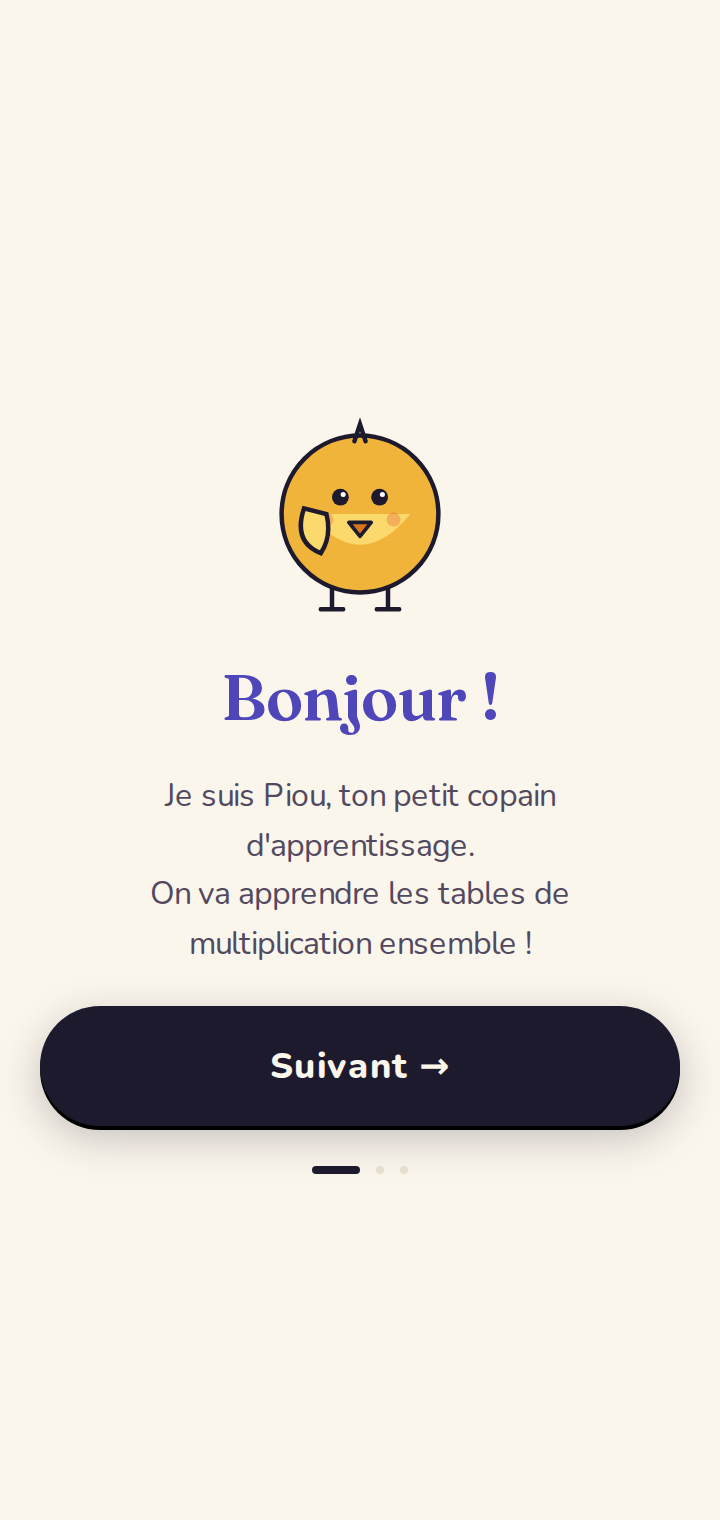
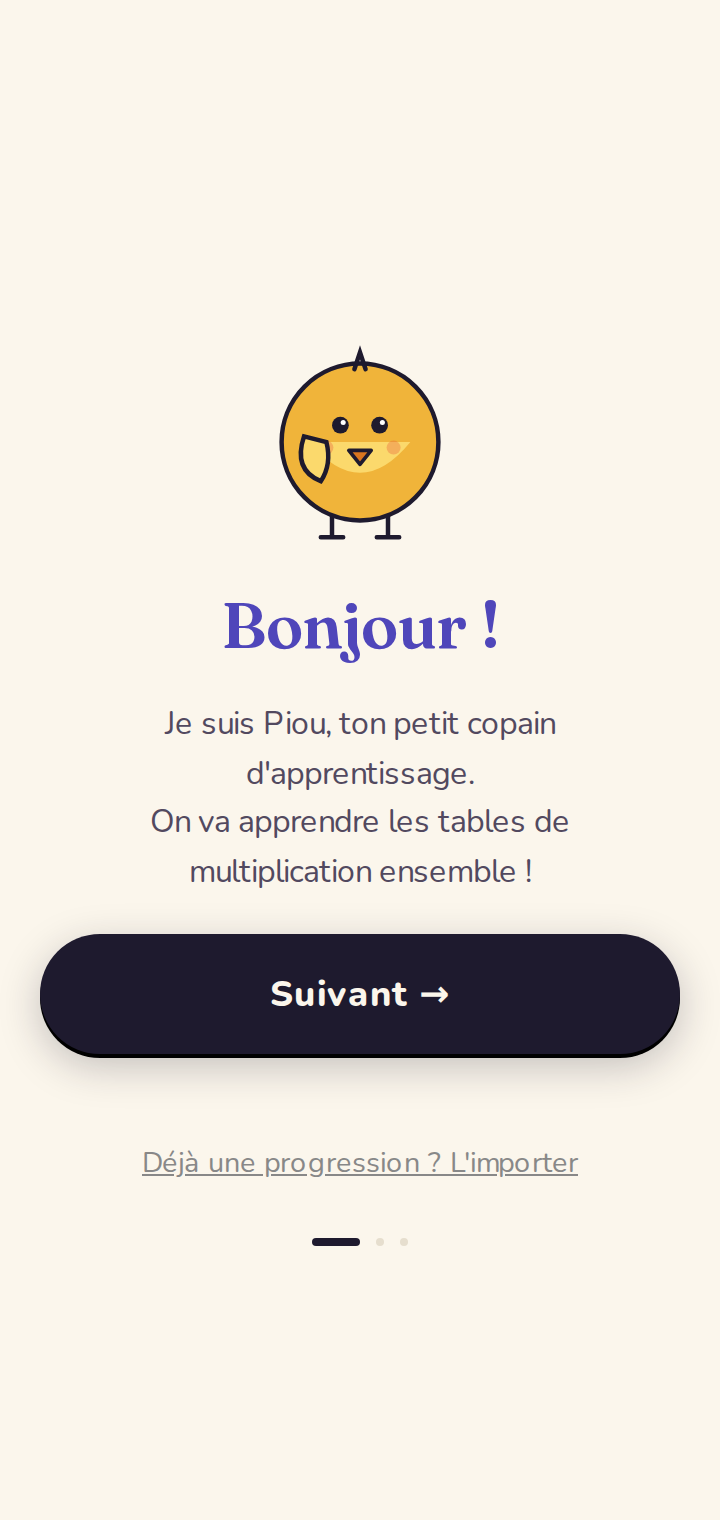
deploy: main @ d79be3f5c4579de8bff702980e0f7e247862c53c d79be3f5c4579de8bff702980e0f7e247862c53c

Changed region(s): [[0.0306, 0.2164, 0.9472, 0.773], [0.4278, 0.8039, 0.4889, 0.8349]]

diff --git a/styles.css b/styles.css
@@ -4723,6 +4723,48 @@ input, select, textarea {
   background: var(--ink);
 }
 
+/* Import d'une progression existante (migration / changement d'appareil),
+   accessible depuis le 1er écran du Welcome. Volontairement discret. */
+.welcome-import-link {
+  margin-top: 18px;
+  background: none;
+  border: none;
+  color: var(--muted, #888);
+  font-size: 0.9rem;
+  text-decoration: underline;
+  cursor: pointer;
+  padding: 8px;
+}
+
+.welcome-import {
+  margin-top: 18px;
+  width: 100%;
+  display: flex;
+  flex-direction: column;
+  align-items: stretch;
+  gap: 10px;
+}
+
+.welcome-import-textarea {
+  width: 100%;
+  min-height: 96px;
+  box-sizing: border-box;
+  resize: vertical;
+  border: 1.5px solid var(--line);
+  border-radius: 12px;
+  padding: 12px;
+  font-family: ui-monospace, SFMono-Regular, Menlo, monospace;
+  font-size: 0.85rem;
+  background: #fff;
+  color: var(--ink);
+}
+
+.welcome-import-error {
+  color: #D9534F;
+  font-size: 0.88rem;
+  text-align: center;
+}
+
 /* ===== static-landing.css ===== */
 .landing {
   flex: 1;

diff --git a/src/App.js b/src/App.js
@@ -1,5 +1,5 @@
-import{jsx as m,jsxs as ds}from"preact/jsx-runtime";import{useState as u,useEffect as P,useLayoutEffect as Ue,useCallback as l,useRef as h,useMemo as H,lazy as k,Suspense as Le}from"react";import{setBusy as Fe}from"virtual:pwa-register";import{FAST_THRESHOLD_MS as xe,DIVISION_FAST_THRESHOLD_MS as Te}from"./types.js";import{composeSession as Ee}from"./lib/sessionComposer.js";import{composeDailySession as De}from"./lib/dailyComposer.js";import{processAnswer as oe}from"./lib/leitner.js";import{checkBadges as ze,getCompletedTables as ne,getCompletedDivisionTables as re,isRule11Unlocked as ie,isDivisionUnlocked as ae}from"./lib/badges.js";import{loadProfile as Je,saveProfile as Ne,clearStoredProfile as Ae,createNewProfile as Me,exportProfile as He,importProfile as Oe}from"./lib/storage.js";import{getFactKey as We}from"./lib/facts.js";import{getDivisionFactKey as _e}from"./lib/divisionFacts.js";import{seedFromPlacement as qe}from"./lib/placement.js";import{todayISO as y}from"./lib/utils.js";import{applyStreakUpdate as Ve}from"./lib/streak.js";import{isStandalone as $e,clearInstallSkipped as je}from"./lib/install.js";import{preflightMicPermission as Qe}from"./lib/micPreflight.js";import{syncLastSession as Ke}from"./lib/push.js";import{isVoiceMode as Ge}from"./hooks/useInputMode.js";import Xe from"./screens/WelcomeScreen.js";import Ye from"./screens/RulesIntroScreen.js";import Ze from"./screens/HomeScreen.js";import es from"./screens/SessionScreen.js";import ss from"./screens/RecapScreen.js";const ts=k(()=>import("./screens/ProgressScreen.js")),os=k(()=>import("./screens/BadgesScreen.js")),ns=k(()=>import("./screens/RulesScreen.js")),rs=k(()=>import("./screens/ParentDashboard.js")),is=k(()=>import("./screens/PrivacyScreen.js")),as=k(()=>import("./screens/ChangelogScreen.js"));function cs(e){return e?e.hasSeenRulesIntro?"home":"rulesIntro":"welcome"}function ls(){const[e,g]=u(()=>Je()),[a,n]=u(()=>cs(e)),[O,ce]=u([]),[I,W]=u("mult"),[le,_]=u("mult"),[q,V]=u(null),[de,$]=u([]),[ue,j]=u([]),[me,Q]=u(!1),[fe,K]=u(!1),[pe,G]=u(!1),[C,Se]=u(()=>y()),U=h(0),L=h(0),F=h([]),x=h(new Map),T=h(new Set),X=h(new Set),Y=h(new Set),Z=h(!0);P(()=>{if(Z.current){Z.current=!1;return}e&&Ne(e)},[e]),P(()=>{$e()&&je()},[]);const N=e?.mysteryTheme;P(()=>{if(!N)return;const s="/",t=()=>{navigator.serviceWorker?.ready.finally(()=>{for(let r=1;r<=5;r++)fetch(`${s}mystery/${N}/level-${r}.png`).catch(()=>{})})};if(typeof window.requestIdleCallback=="function"){const r=window.requestIdleCallback(t,{timeout:3e3});return()=>window.cancelIdleCallback(r)}const o=window.setTimeout(t,1500);return()=>window.clearTimeout(o)},[N]),Ue(()=>{document.body.scrollTop=0,document.documentElement.scrollTop=0},[a]),P(()=>{Fe(a!=="home")},[a]),P(()=>{const s=()=>Se(t=>{const o=y();return o===t?t:o});return document.addEventListener("visibilitychange",s),window.addEventListener("focus",s),()=>{document.removeEventListener("visibilitychange",s),window.removeEventListener("focus",s)}},[]);const he=l((s,t)=>{const o=Me(s);qe(o.facts,t,y()),g(o),n("rulesIntro")},[]),ge=l(()=>{g(s=>s&&{...s,hasSeenRulesIntro:!0}),n("home")},[]),ee=H(()=>e?ie(e):!1,[e]),we=!!e&&ee&&!e.hasSeenRule11,ve=l(()=>{g(s=>!s||!ie(s)||s.hasSeenRule11?s:{...s,hasSeenRule11:!0}),n("rules")},[]),w=H(()=>e?ae(e):!1,[e]),se=!!e&&e.lastSessionDate===C,E=H(()=>!e||se?[]:w?De(e,C):Ee(e,C).map(s=>({kind:"mult",...s})),[e,se,w,C]),be=E.length>0,te=l(()=>{U.current=0,L.current=0,F.current=[],x.current=new Map,T.current=new Set},[]),ke=l(async()=>{!e||E.length===0||(Ge()&&await Qe(),te(),X.current=ne(e.facts),Y.current=re(e.divisionFacts??[]),ce(E),n("session"))},[e,E,te]),A=l((s,t,o)=>{x.current.has(s)||x.current.set(s,t);const r=x.current.get(s);o>r?T.current.add(s):T.current.delete(s)},[]),ye=l((s,t,o,r,v)=>{const p=(s.kind==="div"?Te:xe)[v];if(F.current.push({kind:s.kind,a:s.kind==="div"?s.fact.divisor:s.fact.a,b:s.kind==="div"?s.fact.quotient:s.fact.b,correct:t,responseTimeMs:o,answeredWith:r,isBonusReview:s.isBonusReview,inputMode:v,fast:t&&o<p}),t?(U.current++,L.current=Math.max(L.current,U.current)):U.current=0,s.isBonusReview)return;const D=y();g(d=>{if(!d)return d;if(s.kind==="div"){if(!d.divisionFacts)return d;const{dividend:c,divisor:B}=s.fact,J=d.divisionFacts.find(b=>b.dividend===c&&b.divisor===B)??s.fact,i=oe(J,t,o,D,v,p);return i.history.length>0&&(i.history[i.history.length-1].answeredWith=r),i.introduced||(i.introduced=!0),A(_e(c,B),J.box,i.box),{...d,divisionFacts:d.divisionFacts.map(b=>b.dividend===c&&b.divisor===B?i:b)}}const{a:f,b:R}=s.fact,z=d.facts.find(c=>c.a===f&&c.b===R)??s.fact,S=oe(z,t,o,D,v,p);return S.history.length>0&&(S.history[S.history.length-1].answeredWith=r),S.introduced||(S.introduced=!0),A(We(f,R),z.box,S.box),{...d,facts:d.facts.map(c=>c.a===f&&c.b===R?S:c)}})},[A]),Re=l(s=>{if(!e)return;const t=w?"div":"mult",o={...s,factsPromoted:T.current.size,questions:F.current},r=y(),v=e.lastSessionDate,p=Ve(e,r),D=Math.max(e.longestStreak,p.currentStreak),d=[...e.sessionHistory,o].slice(-50),f={...e,totalSessions:e.totalSessions+1,currentStreak:p.currentStreak,longestStreak:D,lastSessionDate:r,streakFreezes:p.streakFreezes,sessionHistory:d},R={consecutiveCorrect:L.current,wasFast:F.current.map(i=>i.fast??!1)},z=ze(f,R,v),S=new Set(e.badges.map(i=>i.id)),c=z.filter(i=>!S.has(i.id));f.badges=[...e.badges,...c];const B=t==="div"?[...re(f.divisionFacts??[])].filter(i=>!Y.current.has(i)):[...ne(f.facts)].filter(i=>!X.current.has(i)),J=!w&&ae(f);g(f),V(o),$(c),j(B),Q(J),K(p.freezeJustUsed),G(p.freezeJustEarned),W(t),n("recap"),Ke()},[e,w]),M=l(s=>{V(null),$([]),j([]),Q(!1),K(!1),G(!1),W("mult"),n(s)},[]),Be=l(()=>M("home"),[M]),Pe=l(()=>{if(!e)return;const s=He(e),t=new Blob([s],{type:"application/json"}),o=URL.createObjectURL(t),r=document.createElement("a");r.href=o,r.download=`tablito-${e.name}-${y()}.json`,r.click(),URL.revokeObjectURL(o)},[e]),Ie=l(s=>{const t=Oe(s);t&&g(t)},[]),Ce=l(()=>{window.confirm(`R\xE9initialiser le profil ?
+import{jsx as m,jsxs as ds}from"preact/jsx-runtime";import{useState as d,useEffect as P,useLayoutEffect as Fe,useCallback as c,useRef as h,useMemo as O,lazy as k,Suspense as xe}from"react";import{setBusy as Te}from"virtual:pwa-register";import{FAST_THRESHOLD_MS as Ee,DIVISION_FAST_THRESHOLD_MS as De}from"./types.js";import{composeSession as ze}from"./lib/sessionComposer.js";import{composeDailySession as Je}from"./lib/dailyComposer.js";import{processAnswer as ne}from"./lib/leitner.js";import{checkBadges as Ne,getCompletedTables as re,getCompletedDivisionTables as ie,isRule11Unlocked as ae,isDivisionUnlocked as ce}from"./lib/badges.js";import{loadProfile as Ae,saveProfile as Me,clearStoredProfile as He,createNewProfile as Oe,exportProfile as We,importProfile as _e}from"./lib/storage.js";import{getFactKey as qe}from"./lib/facts.js";import{getDivisionFactKey as Ve}from"./lib/divisionFacts.js";import{seedFromPlacement as $e}from"./lib/placement.js";import{todayISO as y}from"./lib/utils.js";import{applyStreakUpdate as je}from"./lib/streak.js";import{isStandalone as Qe,clearInstallSkipped as Ke}from"./lib/install.js";import{preflightMicPermission as Ge}from"./lib/micPreflight.js";import{syncLastSession as Xe}from"./lib/push.js";import{isVoiceMode as Ye}from"./hooks/useInputMode.js";import Ze from"./screens/WelcomeScreen.js";import es from"./screens/RulesIntroScreen.js";import ss from"./screens/HomeScreen.js";import ts from"./screens/SessionScreen.js";import os from"./screens/RecapScreen.js";const ns=k(()=>import("./screens/ProgressScreen.js")),rs=k(()=>import("./screens/BadgesScreen.js")),is=k(()=>import("./screens/RulesScreen.js")),as=k(()=>import("./screens/ParentDashboard.js")),cs=k(()=>import("./screens/PrivacyScreen.js")),ls=k(()=>import("./screens/ChangelogScreen.js"));function le(e){return e?e.hasSeenRulesIntro?"home":"rulesIntro":"welcome"}function us(){const[e,g]=d(()=>Ae()),[a,n]=d(()=>le(e)),[W,ue]=d([]),[B,_]=d("mult"),[de,q]=d("mult"),[V,$]=d(null),[me,j]=d([]),[fe,Q]=d([]),[pe,K]=d(!1),[Se,G]=d(!1),[he,X]=d(!1),[C,ge]=d(()=>y()),U=h(0),L=h(0),F=h([]),x=h(new Map),T=h(new Set),Y=h(new Set),Z=h(new Set),ee=h(!0);P(()=>{if(ee.current){ee.current=!1;return}e&&Me(e)},[e]),P(()=>{Qe()&&Ke()},[]);const N=e?.mysteryTheme;P(()=>{if(!N)return;const s="/",t=()=>{navigator.serviceWorker?.ready.finally(()=>{for(let r=1;r<=5;r++)fetch(`${s}mystery/${N}/level-${r}.png`).catch(()=>{})})};if(typeof window.requestIdleCallback=="function"){const r=window.requestIdleCallback(t,{timeout:3e3});return()=>window.cancelIdleCallback(r)}const o=window.setTimeout(t,1500);return()=>window.clearTimeout(o)},[N]),Fe(()=>{document.body.scrollTop=0,document.documentElement.scrollTop=0},[a]),P(()=>{Te(a!=="home")},[a]),P(()=>{const s=()=>ge(t=>{const o=y();return o===t?t:o});return document.addEventListener("visibilitychange",s),window.addEventListener("focus",s),()=>{document.removeEventListener("visibilitychange",s),window.removeEventListener("focus",s)}},[]);const we=c((s,t)=>{const o=Oe(s);$e(o.facts,t,y()),g(o),n("rulesIntro")},[]),ve=c(()=>{g(s=>s&&{...s,hasSeenRulesIntro:!0}),n("home")},[]),se=O(()=>e?ae(e):!1,[e]),be=!!e&&se&&!e.hasSeenRule11,ke=c(()=>{g(s=>!s||!ae(s)||s.hasSeenRule11?s:{...s,hasSeenRule11:!0}),n("rules")},[]),w=O(()=>e?ce(e):!1,[e]),te=!!e&&e.lastSessionDate===C,E=O(()=>!e||te?[]:w?Je(e,C):ze(e,C).map(s=>({kind:"mult",...s})),[e,te,w,C]),ye=E.length>0,oe=c(()=>{U.current=0,L.current=0,F.current=[],x.current=new Map,T.current=new Set},[]),Re=c(async()=>{!e||E.length===0||(Ye()&&await Ge(),oe(),Y.current=re(e.facts),Z.current=ie(e.divisionFacts??[]),ue(E),n("session"))},[e,E,oe]),A=c((s,t,o)=>{x.current.has(s)||x.current.set(s,t);const r=x.current.get(s);o>r?T.current.add(s):T.current.delete(s)},[]),Ie=c((s,t,o,r,v)=>{const p=(s.kind==="div"?De:Ee)[v];if(F.current.push({kind:s.kind,a:s.kind==="div"?s.fact.divisor:s.fact.a,b:s.kind==="div"?s.fact.quotient:s.fact.b,correct:t,responseTimeMs:o,answeredWith:r,isBonusReview:s.isBonusReview,inputMode:v,fast:t&&o<p}),t?(U.current++,L.current=Math.max(L.current,U.current)):U.current=0,s.isBonusReview)return;const D=y();g(u=>{if(!u)return u;if(s.kind==="div"){if(!u.divisionFacts)return u;const{dividend:l,divisor:I}=s.fact,J=u.divisionFacts.find(b=>b.dividend===l&&b.divisor===I)??s.fact,i=ne(J,t,o,D,v,p);return i.history.length>0&&(i.history[i.history.length-1].answeredWith=r),i.introduced||(i.introduced=!0),A(Ve(l,I),J.box,i.box),{...u,divisionFacts:u.divisionFacts.map(b=>b.dividend===l&&b.divisor===I?i:b)}}const{a:f,b:R}=s.fact,z=u.facts.find(l=>l.a===f&&l.b===R)??s.fact,S=ne(z,t,o,D,v,p);return S.history.length>0&&(S.history[S.history.length-1].answeredWith=r),S.introduced||(S.introduced=!0),A(qe(f,R),z.box,S.box),{...u,facts:u.facts.map(l=>l.a===f&&l.b===R?S:l)}})},[A]),Pe=c(s=>{if(!e)return;const t=w?"div":"mult",o={...s,factsPromoted:T.current.size,questions:F.current},r=y(),v=e.lastSessionDate,p=je(e,r),D=Math.max(e.longestStreak,p.currentStreak),u=[...e.sessionHistory,o].slice(-50),f={...e,totalSessions:e.totalSessions+1,currentStreak:p.currentStreak,longestStreak:D,lastSessionDate:r,streakFreezes:p.streakFreezes,sessionHistory:u},R={consecutiveCorrect:L.current,wasFast:F.current.map(i=>i.fast??!1)},z=Ne(f,R,v),S=new Set(e.badges.map(i=>i.id)),l=z.filter(i=>!S.has(i.id));f.badges=[...e.badges,...l];const I=t==="div"?[...ie(f.divisionFacts??[])].filter(i=>!Z.current.has(i)):[...re(f.facts)].filter(i=>!Y.current.has(i)),J=!w&&ce(f);g(f),$(o),j(l),Q(I),K(J),G(p.freezeJustUsed),X(p.freezeJustEarned),_(t),n("recap"),Xe()},[e,w]),M=c(s=>{$(null),j([]),Q([]),K(!1),G(!1),X(!1),_("mult"),n(s)},[]),Be=c(()=>M("home"),[M]),Ce=c(()=>{if(!e)return;const s=We(e),t=new Blob([s],{type:"application/json"}),o=URL.createObjectURL(t),r=document.createElement("a");r.href=o,r.download=`tablito-${e.name}-${y()}.json`,r.click(),URL.revokeObjectURL(o)},[e]),H=c(s=>{const t=_e(s);return t&&g(t),t},[]),Ue=c(s=>{const t=H(s);return t&&n(le(t)),t!==null},[H]),Le=c(()=>{window.confirm(`R\xE9initialiser le profil ?
 
-Le pr\xE9nom, les s\xE9ances, les badges, la s\xE9rie et le test de placement seront effac\xE9s. Cette action est irr\xE9versible.`)&&(Ae(),g(null),n("welcome"))},[]);return m("div",{className:"app",children:ds(Le,{fallback:null,children:[a==="welcome"&&m(Xe,{onComplete:he}),a==="rulesIntro"&&e&&m(Ye,{name:e.name,onComplete:ge}),a==="home"&&e&&m(Ze,{profile:e,hasSessionAvailable:be,hasNewRule:we,divisionUnlocked:w,onStart:ke,onShowProgress:()=>{_(w?"div":"mult"),n("progress")},onShowBadges:()=>n("badges"),onShowRules:ve,onShowParent:()=>n("parent")}),a==="session"&&e&&O.length>0&&m(es,{questions:O,onComplete:Re,onAnswer:ye}),a==="recap"&&e&&q&&m(ss,{name:e.name,result:q,newBadges:de,newlyCompletedTables:ue,divisionJustUnlocked:me,currentStreak:e.currentStreak,freezeJustUsed:fe,freezeJustEarned:pe,knownFactsCount:I==="div"?(e.divisionFacts??[]).filter(s=>s.box>=3).length:e.facts.filter(s=>s.box>=3).length,totalFacts:I==="div"?(e.divisionFacts??[]).length:e.facts.length,onFinish:Be,onShowProgress:()=>{_(I),M("progress")},mode:I}),a==="progress"&&e&&m(ts,{profile:e,onBack:()=>n("home"),initialView:le}),a==="badges"&&e&&m(os,{profile:e,onBack:()=>n("home")}),a==="rules"&&m(ns,{onBack:()=>n("home"),showRule11:ee}),a==="parent"&&e&&m(rs,{profile:e,onBack:()=>n("home"),onExport:Pe,onImport:Ie,onResetProfile:Ce,onShowPrivacy:()=>n("privacy"),onShowChangelog:()=>n("changelog")}),a==="privacy"&&m(is,{onBack:()=>n("parent")}),a==="changelog"&&m(as,{onBack:()=>n("parent")})]})})}export{ls as default};
+Le pr\xE9nom, les s\xE9ances, les badges, la s\xE9rie et le test de placement seront effac\xE9s. Cette action est irr\xE9versible.`)&&(He(),g(null),n("welcome"))},[]);return m("div",{className:"app",children:ds(xe,{fallback:null,children:[a==="welcome"&&m(Ze,{onComplete:we,onImport:Ue}),a==="rulesIntro"&&e&&m(es,{name:e.name,onComplete:ve}),a==="home"&&e&&m(ss,{profile:e,hasSessionAvailable:ye,hasNewRule:be,divisionUnlocked:w,onStart:Re,onShowProgress:()=>{q(w?"div":"mult"),n("progress")},onShowBadges:()=>n("badges"),onShowRules:ke,onShowParent:()=>n("parent")}),a==="session"&&e&&W.length>0&&m(ts,{questions:W,onComplete:Pe,onAnswer:Ie}),a==="recap"&&e&&V&&m(os,{name:e.name,result:V,newBadges:me,newlyCompletedTables:fe,divisionJustUnlocked:pe,currentStreak:e.currentStreak,freezeJustUsed:Se,freezeJustEarned:he,knownFactsCount:B==="div"?(e.divisionFacts??[]).filter(s=>s.box>=3).length:e.facts.filter(s=>s.box>=3).length,totalFacts:B==="div"?(e.divisionFacts??[]).length:e.facts.length,onFinish:Be,onShowProgress:()=>{q(B),M("progress")},mode:B}),a==="progress"&&e&&m(ns,{profile:e,onBack:()=>n("home"),initialView:de}),a==="badges"&&e&&m(rs,{profile:e,onBack:()=>n("home")}),a==="rules"&&m(is,{onBack:()=>n("home"),showRule11:se}),a==="parent"&&e&&m(as,{profile:e,onBack:()=>n("home"),onExport:Ce,onImport:H,onResetProfile:Le,onShowPrivacy:()=>n("privacy"),onShowChangelog:()=>n("changelog")}),a==="privacy"&&m(cs,{onBack:()=>n("parent")}),a==="changelog"&&m(ls,{onBack:()=>n("parent")})]})})}export{us as default};
 
 //# sourceMappingURL=App.js.map

diff --git a/guide/index.html b/guide/index.html
@@ -348,7 +348,7 @@
         <div class="shots shots-4">
           
           <figure class="shot">
-            <img src="screenshots/01-welcome-intro.png?v=785d37b9" alt="La mascotte se présente à l'enfant." width="360" height="760" loading="lazy" />
+            <img src="screenshots/01-welcome-intro.png?v=026538c3" alt="La mascotte se présente à l'enfant." width="360" height="760" loading="lazy" />
             <figcaption>La mascotte se présente à l'enfant.</figcaption>
           </figure>
 

diff --git a/src/lib/feedback.js b/src/lib/feedback.js
@@ -1,3 +1,3 @@
-import{countMastered as o}from"./leitner.js";const i="https://cseyzitvqvyuabmenntb.supabase.co",a="sb_publishable_WKCgKA1DIyj8o1eG4_Pciw_ZoujAiqj",l=!!(i&&a);function _(t,n=!1){const e={app_version:"20260610211506",user_agent:navigator.userAgent,locale:navigator.language,viewport:{w:window.innerWidth,h:window.innerHeight}};if(t){const c=new Date(t.startDate).getTime(),m=Math.max(0,Math.floor((Date.now()-c)/864e5));e.stats={total_sessions:t.totalSessions,facts_mastered:o(t.facts),facts_total:t.facts.length,current_streak:t.currentStreak,days_since_start:m};const s=t.divisionFacts??[];if(s.some(r=>r.introduced)&&(e.stats.divisions_mastered=o(s),e.stats.divisions_total=s.length),n){const{name:r,...d}=t;e.profile_snapshot=d}}return e}async function b(t){if(!l)throw new Error("Feedback d\xE9sactiv\xE9 (configuration manquante)");const n=await fetch(`${i}/rest/v1/feedback`,{method:"POST",headers:{apikey:a,Authorization:`Bearer ${a}`,"Content-Type":"application/json",Prefer:"return=minimal"},body:JSON.stringify({message:t.message,email:t.email&&t.email.trim()?t.email.trim():null,context:t.context})});if(!n.ok){const e=await n.text().catch(()=>"");throw new Error(e||`HTTP ${n.status}`)}}export{_ as buildContext,l as feedbackEnabled,b as submitFeedback};
+import{countMastered as o}from"./leitner.js";const i="https://cseyzitvqvyuabmenntb.supabase.co",a="sb_publishable_WKCgKA1DIyj8o1eG4_Pciw_ZoujAiqj",l=!!(i&&a);function _(t,n=!1){const e={app_version:"20260610212252",user_agent:navigator.userAgent,locale:navigator.language,viewport:{w:window.innerWidth,h:window.innerHeight}};if(t){const c=new Date(t.startDate).getTime(),m=Math.max(0,Math.floor((Date.now()-c)/864e5));e.stats={total_sessions:t.totalSessions,facts_mastered:o(t.facts),facts_total:t.facts.length,current_streak:t.currentStreak,days_since_start:m};const s=t.divisionFacts??[];if(s.some(r=>r.introduced)&&(e.stats.divisions_mastered=o(s),e.stats.divisions_total=s.length),n){const{name:r,...d}=t;e.profile_snapshot=d}}return e}async function b(t){if(!l)throw new Error("Feedback d\xE9sactiv\xE9 (configuration manquante)");const n=await fetch(`${i}/rest/v1/feedback`,{method:"POST",headers:{apikey:a,Authorization:`Bearer ${a}`,"Content-Type":"application/json",Prefer:"return=minimal"},body:JSON.stringify({message:t.message,email:t.email&&t.email.trim()?t.email.trim():null,context:t.context})});if(!n.ok){const e=await n.text().catch(()=>"");throw new Error(e||`HTTP ${n.status}`)}}export{_ as buildContext,l as feedbackEnabled,b as submitFeedback};
 
 //# sourceMappingURL=feedback.js.map

diff --git a/src/screens/ParentDashboard.js b/src/screens/ParentDashboard.js
@@ -1,3 +1,3 @@
-import{Fragment as $,jsx as a,jsxs as t}from"preact/jsx-runtime";import{useState as p,useMemo as l}from"react";import{isDivisionUnlocked as G}from"../lib/badges.js";import{countMastered as C}from"../lib/leitner.js";import{getHardestFacts as W}from"../lib/hardestFacts.js";import{getActiveStreak as z}from"../lib/streak.js";import{todayISO as J}from"../lib/utils.js";import j from"../components/ProgressGrid.js";import K from"../components/DivisionProgressGrid.js";import Q from"../components/BackChevron.js";import X from"../components/FeedbackModal.js";import S from"../components/EvolutionChart.js";import Z from"../components/NotificationSettings.js";const M=10,aa=20;function ea({profile:s,onBack:w,onExport:D,onImport:F,onResetProfile:B,onShowPrivacy:E,onShowChangelog:P}){const[u,b]=p(!1),[v,h]=p(""),[T,N]=p(!1),[L,g]=p(!1),d=l(()=>G(s),[s]),m=l(()=>s.divisionFacts??[],[s.divisionFacts]),[R,y]=p(d?"div":"mult"),n=d&&R==="div",A=async()=>{const e=window.location.origin+"/";if(navigator.share){try{await navigator.share({title:"Tablito",text:"Tablito \u2014 pour apprendre les tables de multiplication.",url:e})}catch{}return}try{await navigator.clipboard.writeText(e),g(!0),setTimeout(()=>g(!1),2e3)}catch{}},{boxCounts:I,maxBoxCount:_}=l(()=>{const e=[0,0,0,0,0,0],i=n?m:s.facts;for(const r of i)r.introduced?e[r.box]++:e[0]++;return{boxCounts:e,maxBoxCount:Math.max(...e,1)}},[s.facts,m,n]),f=l(()=>W(s,M,5),[s]),U=l(()=>[...s.sessionHistory].reverse().slice(0,10),[s.sessionHistory]),o=l(()=>{const e=s.sessionHistory.slice(-aa);if(e.length<2)return null;const i=[],r=[];for(const c of e){const x=new Date(c.date).toLocaleDateString("fr-FR",{day:"numeric",month:"short"});i.push({date:x,value:Math.round(c.correctCount/c.questionsCount*100)}),r.push({date:x,value:c.averageTimeMs/1e3})}const q=Math.max(Math.ceil(Math.max(...r.map(c=>c.value))),4);return{accuracy:i,time:r,timeYMax:q}},[s.sessionHistory]),k=`${C(s.facts)}/${s.facts.length}`,H=`${C(m)}/${m.length}`,O=["var(--box-gray)","var(--box-red)","var(--box-orange)","var(--box-yellow)","var(--box-lightgreen)","var(--box-green)"],V=["N/A","B1","B2","B3","B4","B5"],Y=()=>{v.trim()&&(F(v.trim()),b(!1),h(""))};return t("div",{className:"parent-dashboard",children:[t("div",{className:"parent-header",children:[a("button",{className:"parent-back-btn",onClick:w,"aria-label":"Retour",children:a(Q,{})}),t("div",{className:"parent-header-titles",children:[a("div",{className:"parent-eyebrow",children:"Espace parent"}),t("div",{className:"parent-title",children:[s.name," \xB7 ","profil"]})]})]}),t("div",{className:"parent-section",children:[a("h3",{children:"Vue d'ensemble"}),t("div",{className:`parent-stats-grid${d?" parent-stats-grid--three":""}`,children:[t("div",{className:"parent-stat-card",children:[a("div",{className:"parent-stat-value",children:s.totalSessions}),a("div",{className:"parent-stat-label",children:"S\xE9ances"})]}),t("div",{className:"parent-stat-card",children:[a("div",{className:"parent-stat-value",children:z(s,J())}),a("div",{className:"parent-stat-label",children:"S\xE9rie actuelle"})]}),t("div",{className:"parent-stat-card",children:[a("div",{className:"parent-stat-value",children:s.longestStreak}),a("div",{className:"parent-stat-label",children:"Meilleure s\xE9rie"})]}),!d&&t("div",{className:"parent-stat-card",children:[a("div",{className:"parent-stat-value",children:k}),a("div",{className:"parent-stat-label",children:"Faits ma\xEEtris\xE9s"})]})]})]}),d&&t($,{children:[t("div",{className:"progress-tabs parent-op-tabs",role:"tablist","aria-label":"Op\xE9ration",children:[a("button",{type:"button",className:`progress-tab ${n?"":"active"}`,onClick:()=>y("mult"),children:"Multiplications"}),a("button",{type:"button",className:`progress-tab ${n?"active":""}`,onClick:()=>y("div"),children:"Divisions"})]}),a("div",{className:"parent-section",children:t("div",{className:"parent-stat-card parent-mastery-card",children:[a("div",{className:"parent-stat-value",children:n?H:k}),a("div",{className:"parent-stat-label",children:n?"Divisions ma\xEEtris\xE9es":"Multiplications ma\xEEtris\xE9es"})]})})]}),t("div",{className:"parent-section",children:[t("h3",{children:["R\xE9partition par bo\xEEte",a("a",{className:"parent-section-help",href:"/guide/#principes",target:"_blank",rel:"noopener noreferrer","aria-label":"En savoir plus sur le syst\xE8me de Leitner",children:"?"})]}),t("p",{className:"parent-section-subtitle",children:["Combien de ",n?"divisions":"multiplications"," dans chaque bo\xEEte de r\xE9vision (B1 = \xE0 r\xE9viser souvent, B5 = bien ancr\xE9es)."]}),a("div",{className:"parent-histogram",children:I.map((e,i)=>t("div",{className:"parent-histogram-bar",children:[a("div",{className:"parent-histogram-count",children:e}),a("div",{className:"parent-histogram-fill",style:{height:`${e/_*100}%`,background:O[i]}}),a("div",{className:"parent-histogram-label",children:V[i]})]},i))})]}),t("div",{className:"parent-section",children:[t("h3",{children:["Grille Leitner",a("a",{className:"parent-section-help",href:"/guide/#principes",target:"_blank",rel:"noopener noreferrer","aria-label":"En savoir plus sur le syst\xE8me de Leitner",children:"?"})]}),t("p",{className:"parent-section-subtitle",children:["Une case par ",n?"division":"multiplication",", color\xE9e selon sa bo\xEEte. Le rouge signale les faits r\xE9cents ou en difficult\xE9, le vert ceux bien ancr\xE9s."]}),n?a(K,{facts:m}):a(j,{facts:s.facts})]}),o&&t($,{children:[t("div",{className:"parent-section",children:[a("h3",{children:"Taux de bonnes r\xE9ponses"}),a(S,{data:o.accuracy,yMin:0,yMax:100,yTicks:[0,25,50,75,100],formatY:e=>`${e}%`,color:"var(--primary)"})]}),t("div",{className:"parent-section",children:[a("h3",{children:"Temps de r\xE9ponse moyen"}),a(S,{data:o.time,yMin:0,yMax:o.timeYMax,yTicks:[0,o.timeYMax/2,o.timeYMax],formatY:e=>`${e.toFixed(1)}s`,color:"var(--sage)"})]})]}),f.length>0&&t("div",{className:"parent-section",children:[a("h3",{children:"Faits les plus difficiles"}),t("p",{className:"parent-section-subtitle",children:["Sur les ",M," derni\xE8res s\xE9ances."]}),a("div",{className:"parent-hard-facts",children:f.map(e=>t("div",{className:"parent-hard-fact",children:[a("span",{className:`parent-hard-fact-kind parent-hard-fact-kind--${e.kind}`,"aria-label":e.kind==="div"?"Division":"Multiplication",children:e.kind==="div"?"\xF7":"\xD7"}),a("span",{className:"parent-hard-fact-name",children:e.kind==="div"?`${e.dividend} \xF7 ${e.divisor} = ${e.quotient}`:`${e.a} \xD7 ${e.b} = ${e.product}`}),t("span",{className:"parent-hard-fact-errors",children:[e.errorCount," erreur",e.errorCount>1?"s":""," | Bo\xEEte"," ",e.box]})]},`${e.kind}-${e.key}`))})]}),s.sessionHistory.length>0&&t("div",{className:"parent-section",children:[a("h3",{children:"Historique des s\xE9ances"}),a("div",{className:"parent-session-history",children:U.map(e=>{const i=new Date(e.date).toLocaleDateString("fr-FR",{weekday:"short",day:"numeric",month:"long"}),r=(e.averageTimeMs/1e3).toFixed(1);return t("div",{className:"parent-session-row",children:[a("span",{className:"parent-session-date",children:i}),t("span",{className:"parent-session-score",children:[e.correctCount,"/",e.questionsCount]}),t("span",{className:"parent-session-time",children:[r,"s"]})]},e.date)})})]}),t("div",{className:"parent-section",children:[a("h3",{children:"Sauvegarde"}),t("div",{className:"parent-actions",children:[a("button",{className:"parent-action-btn",onClick:D,children:"Exporter"}),a("button",{className:"parent-action-btn",onClick:()=>b(!u),children:"Importer"})]})]}),t("div",{className:"parent-section",children:[a("h3",{children:"Aide & retours"}),t("div",{className:"parent-actions",children:[a("a",{className:"parent-action-btn",href:"/guide/",target:"_blank",rel:"noopener noreferrer",children:"Guide utilisateur"}),a("button",{className:"parent-action-btn",onClick:()=>N(!0),children:"Envoyer un avis"})]})]}),a(Z,{}),t("div",{className:"parent-section",children:[a("h3",{children:"Partager Tablito"}),a("p",{className:"parent-section-subtitle",children:"Envoyez le lien de l'app \xE0 un autre parent."}),a("div",{className:"parent-actions",children:a("button",{className:"parent-action-btn",onClick:A,children:L?"Lien copi\xE9 \u2713":"Partager l\u2019app"})})]}),t("div",{className:"parent-section",children:[a("h3",{children:"\xC0 propos"}),t("div",{className:"parent-actions",children:[a("button",{className:"parent-action-btn",onClick:P,children:"Nouveaut\xE9s"}),a("button",{className:"parent-action-btn",onClick:E,children:"Confidentialit\xE9"})]})]}),t("div",{className:"parent-section",children:[a("h3",{children:"R\xE9initialisation"}),a("p",{className:"parent-section-subtitle",children:"Efface le profil et relance le test de placement. Utile pour recommencer \xE0 z\xE9ro ou changer d'enfant."}),a("div",{className:"parent-actions",children:a("button",{className:"parent-action-btn parent-action-btn--danger",onClick:B,children:"R\xE9initialiser le profil"})})]}),u&&t("div",{className:"parent-import-area",children:[a("textarea",{className:"parent-import-textarea",placeholder:"Collez le JSON ici...",value:v,onChange:e=>h(e.target.value)}),a("button",{className:"parent-import-confirm",onClick:Y,disabled:!v.trim(),children:"Confirmer l'import"})]}),T&&a(X,{profile:s,onClose:()=>N(!1)}),t("div",{className:"parent-version","aria-label":"Version de l'app",children:["v","20260610211506"]})]})}export{ea as default};
+import{Fragment as $,jsx as a,jsxs as t}from"preact/jsx-runtime";import{useState as p,useMemo as l}from"react";import{isDivisionUnlocked as G}from"../lib/badges.js";import{countMastered as C}from"../lib/leitner.js";import{getHardestFacts as W}from"../lib/hardestFacts.js";import{getActiveStreak as z}from"../lib/streak.js";import{todayISO as J}from"../lib/utils.js";import j from"../components/ProgressGrid.js";import K from"../components/DivisionProgressGrid.js";import Q from"../components/BackChevron.js";import X from"../components/FeedbackModal.js";import S from"../components/EvolutionChart.js";import Z from"../components/NotificationSettings.js";const M=10,aa=20;function ea({profile:s,onBack:w,onExport:D,onImport:F,onResetProfile:B,onShowPrivacy:E,onShowChangelog:P}){const[u,b]=p(!1),[v,h]=p(""),[T,N]=p(!1),[L,g]=p(!1),d=l(()=>G(s),[s]),m=l(()=>s.divisionFacts??[],[s.divisionFacts]),[R,y]=p(d?"div":"mult"),n=d&&R==="div",A=async()=>{const e=window.location.origin+"/";if(navigator.share){try{await navigator.share({title:"Tablito",text:"Tablito \u2014 pour apprendre les tables de multiplication.",url:e})}catch{}return}try{await navigator.clipboard.writeText(e),g(!0),setTimeout(()=>g(!1),2e3)}catch{}},{boxCounts:I,maxBoxCount:_}=l(()=>{const e=[0,0,0,0,0,0],i=n?m:s.facts;for(const r of i)r.introduced?e[r.box]++:e[0]++;return{boxCounts:e,maxBoxCount:Math.max(...e,1)}},[s.facts,m,n]),f=l(()=>W(s,M,5),[s]),U=l(()=>[...s.sessionHistory].reverse().slice(0,10),[s.sessionHistory]),o=l(()=>{const e=s.sessionHistory.slice(-aa);if(e.length<2)return null;const i=[],r=[];for(const c of e){const x=new Date(c.date).toLocaleDateString("fr-FR",{day:"numeric",month:"short"});i.push({date:x,value:Math.round(c.correctCount/c.questionsCount*100)}),r.push({date:x,value:c.averageTimeMs/1e3})}const q=Math.max(Math.ceil(Math.max(...r.map(c=>c.value))),4);return{accuracy:i,time:r,timeYMax:q}},[s.sessionHistory]),k=`${C(s.facts)}/${s.facts.length}`,H=`${C(m)}/${m.length}`,O=["var(--box-gray)","var(--box-red)","var(--box-orange)","var(--box-yellow)","var(--box-lightgreen)","var(--box-green)"],V=["N/A","B1","B2","B3","B4","B5"],Y=()=>{v.trim()&&(F(v.trim()),b(!1),h(""))};return t("div",{className:"parent-dashboard",children:[t("div",{className:"parent-header",children:[a("button",{className:"parent-back-btn",onClick:w,"aria-label":"Retour",children:a(Q,{})}),t("div",{className:"parent-header-titles",children:[a("div",{className:"parent-eyebrow",children:"Espace parent"}),t("div",{className:"parent-title",children:[s.name," \xB7 ","profil"]})]})]}),t("div",{className:"parent-section",children:[a("h3",{children:"Vue d'ensemble"}),t("div",{className:`parent-stats-grid${d?" parent-stats-grid--three":""}`,children:[t("div",{className:"parent-stat-card",children:[a("div",{className:"parent-stat-value",children:s.totalSessions}),a("div",{className:"parent-stat-label",children:"S\xE9ances"})]}),t("div",{className:"parent-stat-card",children:[a("div",{className:"parent-stat-value",children:z(s,J())}),a("div",{className:"parent-stat-label",children:"S\xE9rie actuelle"})]}),t("div",{className:"parent-stat-card",children:[a("div",{className:"parent-stat-value",children:s.longestStreak}),a("div",{className:"parent-stat-label",children:"Meilleure s\xE9rie"})]}),!d&&t("div",{className:"parent-stat-card",children:[a("div",{className:"parent-stat-value",children:k}),a("div",{className:"parent-stat-label",children:"Faits ma\xEEtris\xE9s"})]})]})]}),d&&t($,{children:[t("div",{className:"progress-tabs parent-op-tabs",role:"tablist","aria-label":"Op\xE9ration",children:[a("button",{type:"button",className:`progress-tab ${n?"":"active"}`,onClick:()=>y("mult"),children:"Multiplications"}),a("button",{type:"button",className:`progress-tab ${n?"active":""}`,onClick:()=>y("div"),children:"Divisions"})]}),a("div",{className:"parent-section",children:t("div",{className:"parent-stat-card parent-mastery-card",children:[a("div",{className:"parent-stat-value",children:n?H:k}),a("div",{className:"parent-stat-label",children:n?"Divisions ma\xEEtris\xE9es":"Multiplications ma\xEEtris\xE9es"})]})})]}),t("div",{className:"parent-section",children:[t("h3",{children:["R\xE9partition par bo\xEEte",a("a",{className:"parent-section-help",href:"/guide/#principes",target:"_blank",rel:"noopener noreferrer","aria-label":"En savoir plus sur le syst\xE8me de Leitner",children:"?"})]}),t("p",{className:"parent-section-subtitle",children:["Combien de ",n?"divisions":"multiplications"," dans chaque bo\xEEte de r\xE9vision (B1 = \xE0 r\xE9viser souvent, B5 = bien ancr\xE9es)."]}),a("div",{className:"parent-histogram",children:I.map((e,i)=>t("div",{className:"parent-histogram-bar",children:[a("div",{className:"parent-histogram-count",children:e}),a("div",{className:"parent-histogram-fill",style:{height:`${e/_*100}%`,background:O[i]}}),a("div",{className:"parent-histogram-label",children:V[i]})]},i))})]}),t("div",{className:"parent-section",children:[t("h3",{children:["Grille Leitner",a("a",{className:"parent-section-help",href:"/guide/#principes",target:"_blank",rel:"noopener noreferrer","aria-label":"En savoir plus sur le syst\xE8me de Leitner",children:"?"})]}),t("p",{className:"parent-section-subtitle",children:["Une case par ",n?"division":"multiplication",", color\xE9e selon sa bo\xEEte. Le rouge signale les faits r\xE9cents ou en difficult\xE9, le vert ceux bien ancr\xE9s."]}),n?a(K,{facts:m}):a(j,{facts:s.facts})]}),o&&t($,{children:[t("div",{className:"parent-section",children:[a("h3",{children:"Taux de bonnes r\xE9ponses"}),a(S,{data:o.accuracy,yMin:0,yMax:100,yTicks:[0,25,50,75,100],formatY:e=>`${e}%`,color:"var(--primary)"})]}),t("div",{className:"parent-section",children:[a("h3",{children:"Temps de r\xE9ponse moyen"}),a(S,{data:o.time,yMin:0,yMax:o.timeYMax,yTicks:[0,o.timeYMax/2,o.timeYMax],formatY:e=>`${e.toFixed(1)}s`,color:"var(--sage)"})]})]}),f.length>0&&t("div",{className:"parent-section",children:[a("h3",{children:"Faits les plus difficiles"}),t("p",{className:"parent-section-subtitle",children:["Sur les ",M," derni\xE8res s\xE9ances."]}),a("div",{className:"parent-hard-facts",children:f.map(e=>t("div",{className:"parent-hard-fact",children:[a("span",{className:`parent-hard-fact-kind parent-hard-fact-kind--${e.kind}`,"aria-label":e.kind==="div"?"Division":"Multiplication",children:e.kind==="div"?"\xF7":"\xD7"}),a("span",{className:"parent-hard-fact-name",children:e.kind==="div"?`${e.dividend} \xF7 ${e.divisor} = ${e.quotient}`:`${e.a} \xD7 ${e.b} = ${e.product}`}),t("span",{className:"parent-hard-fact-errors",children:[e.errorCount," erreur",e.errorCount>1?"s":""," | Bo\xEEte"," ",e.box]})]},`${e.kind}-${e.key}`))})]}),s.sessionHistory.length>0&&t("div",{className:"parent-section",children:[a("h3",{children:"Historique des s\xE9ances"}),a("div",{className:"parent-session-history",children:U.map(e=>{const i=new Date(e.date).toLocaleDateString("fr-FR",{weekday:"short",day:"numeric",month:"long"}),r=(e.averageTimeMs/1e3).toFixed(1);return t("div",{className:"parent-session-row",children:[a("span",{className:"parent-session-date",children:i}),t("span",{className:"parent-session-score",children:[e.correctCount,"/",e.questionsCount]}),t("span",{className:"parent-session-time",children:[r,"s"]})]},e.date)})})]}),t("div",{className:"parent-section",children:[a("h3",{children:"Sauvegarde"}),t("div",{className:"parent-actions",children:[a("button",{className:"parent-action-btn",onClick:D,children:"Exporter"}),a("button",{className:"parent-action-btn",onClick:()=>b(!u),children:"Importer"})]})]}),t("div",{className:"parent-section",children:[a("h3",{children:"Aide & retours"}),t("div",{className:"parent-actions",children:[a("a",{className:"parent-action-btn",href:"/guide/",target:"_blank",rel:"noopener noreferrer",children:"Guide utilisateur"}),a("button",{className:"parent-action-btn",onClick:()=>N(!0),children:"Envoyer un avis"})]})]}),a(Z,{}),t("div",{className:"parent-section",children:[a("h3",{children:"Partager Tablito"}),a("p",{className:"parent-section-subtitle",children:"Envoyez le lien de l'app \xE0 un autre parent."}),a("div",{className:"parent-actions",children:a("button",{className:"parent-action-btn",onClick:A,children:L?"Lien copi\xE9 \u2713":"Partager l\u2019app"})})]}),t("div",{className:"parent-section",children:[a("h3",{children:"\xC0 propos"}),t("div",{className:"parent-actions",children:[a("button",{className:"parent-action-btn",onClick:P,children:"Nouveaut\xE9s"}),a("button",{className:"parent-action-btn",onClick:E,children:"Confidentialit\xE9"})]})]}),t("div",{className:"parent-section",children:[a("h3",{children:"R\xE9initialisation"}),a("p",{className:"parent-section-subtitle",children:"Efface le profil et relance le test de placement. Utile pour recommencer \xE0 z\xE9ro ou changer d'enfant."}),a("div",{className:"parent-actions",children:a("button",{className:"parent-action-btn parent-action-btn--danger",onClick:B,children:"R\xE9initialiser le profil"})})]}),u&&t("div",{className:"parent-import-area",children:[a("textarea",{className:"parent-import-textarea",placeholder:"Collez le JSON ici...",value:v,onChange:e=>h(e.target.value)}),a("button",{className:"parent-import-confirm",onClick:Y,disabled:!v.trim(),children:"Confirmer l'import"})]}),T&&a(X,{profile:s,onClose:()=>N(!1)}),t("div",{className:"parent-version","aria-label":"Version de l'app",children:["v","20260610212252"]})]})}export{ea as default};
 
 //# sourceMappingURL=ParentDashboard.js.map

diff --git a/src/screens/WelcomeScreen.js b/src/screens/WelcomeScreen.js
@@ -1,3 +1,3 @@
-import{Fragment as z,jsx as e,jsxs as a}from"preact/jsx-runtime";import{useState as c,useRef as j,useCallback as R,useEffect as F}from"react";import T from"../components/Mascot.js";import U from"../components/NumPad.js";import{PLACEMENT_FACTS as u,MAX_CONSECUTIVE_FAILURES as Q}from"../lib/placement.js";import{useTTS as V}from"../hooks/useTTS.js";function X({onComplete:N}){const[t,k]=c(0),[i,M]=c(""),{speak:m,stop:g}=V(),[n,$]=c(0),[P,K]=c([]),[A,L]=c(0),[d,q]=c(!1),[b,x]=c(null),[D,E]=c(null),y=j(0);F(()=>{t===0?m("welcome-hello"):t===1?m("welcome-name"):t===2&&m("welcome-test")},[t,m]);const v=()=>{t===0?k(1):t===1&&i.trim()?k(2):t===2&&(k(3),y.current=Date.now())},I=()=>{N(i.trim(),[])},w=R(s=>{if(d)return;q(!0),g();const o=u[n],[l,f]=o,C=Date.now()-y.current,S={a:Math.min(l,f),b:Math.max(l,f),correct:s,timeMs:C},p=[...P,S];K(p);const r=s?0:A+1;L(r),x(s?"correct":"incorrect"),setTimeout(()=>{x(null),q(!1),E(null);const O=n+1>=u.length,W=r>=Q;O||W?N(i.trim(),p):($(n+1),y.current=Date.now())},s?600:1200)},[d,n,P,A,i,N,g]),_=R(s=>{const[o,l]=u[n];E(s),w(s===o*l)},[n,w]),B=R(()=>{w(!1)},[w]),J=s=>{s.key==="Enter"&&i.trim()&&v()},[h]=c(()=>u.map(([s,o])=>Math.random()>.5?[s,o]:[o,s]));if(F(()=>{if(t!==3)return;const[s,o]=h[n],l=`q-${s}-${o}`;n===0?m("placement-intro",()=>m(l)):m(l)},[t,n,h,m]),t===3){const s=u[n],[o,l]=s,[f,C]=h[n],S=Array.from({length:u.length},(p,r)=>r<n?"done":r===n?"current":"pending");return e("div",{className:"welcome-screen",children:a("div",{className:"welcome-step",children:[e("div",{className:"welcome-test-progress",children:S.map((p,r)=>e("div",{className:`welcome-test-progress-dot ${p}`},r))}),a("div",{className:"formula-text welcome-test-question",children:[f,e("span",{className:"formula-operator",children:"\xD7"}),C,e("span",{className:"formula-equals",children:"="}),D!=null?e("span",{className:"welcome-test-answer",children:D}):e("span",{className:"formula-placeholder",children:"?"})]}),b&&e("div",{className:`welcome-test-feedback ${b}`,children:b==="correct"?"\u2713":`${o*l}`}),!b&&a(z,{children:[e(U,{onSubmit:_,disabled:d}),a("button",{className:"welcome-dontknow",onClick:B,disabled:d,children:[e("span",{className:"welcome-dontknow-mark",children:"?"}),e("span",{children:"Je ne sais pas"})]}),e("div",{className:"welcome-test-hint",children:"R\xE9ponds du mieux que tu peux\xA0!"})]})]},"test")})}return a("div",{className:"welcome-screen",children:[t===0&&a("div",{className:"welcome-step",children:[e(T,{mood:"idle"}),e("div",{className:"welcome-title",children:"Bonjour\xA0!"}),a("div",{className:"welcome-subtitle",children:["Je suis Piou, ton petit copain d'apprentissage.",e("br",{}),"On va apprendre les tables de multiplication ensemble\xA0!"]}),e("button",{className:"btn btn--ink welcome-btn",onClick:v,children:"Suivant \u2192"})]},"step0"),t===1&&a("div",{className:"welcome-step welcome-step-name",children:[e(T,{mood:"happy"}),e("div",{className:"welcome-title",children:"Comment tu t'appelles\xA0?"}),e("input",{className:"welcome-input",type:"text",placeholder:"Ton pr\xE9nom",value:i,onChange:s=>M(s.target.value),onKeyDown:J,autoFocus:!0,maxLength:20}),e("button",{className:"btn btn--ink welcome-btn",onClick:v,disabled:!i.trim(),children:"C'est moi\xA0! \u2192"})]},"step1"),t===2&&a("div",{className:"welcome-step",children:[e(T,{mood:"celebrate"}),a("div",{className:"welcome-title",children:["Salut ",i,"\xA0!"]}),a("div",{className:"welcome-subtitle",children:["Avant de commencer, je vais te poser quelques questions pour voir ce que tu connais d\xE9j\xE0.",e("br",{}),e("br",{}),"Pas de stress : si tu ne sais pas, tape sur \xAB\xA0Je ne sais pas\xA0\xBB."]}),e("button",{className:"btn btn--ink welcome-btn",onClick:v,children:"C'est parti\xA0! \u2192"}),e("button",{className:"welcome-btn-skip",onClick:I,children:"Passer le test"})]},"step2"),e("div",{className:"welcome-dots",children:[0,1,2].map(s=>e("div",{className:`welcome-dot ${s===t?"active":""}`},s))})]})}export{X as default};
+import{Fragment as ne,jsx as e,jsxs as a}from"preact/jsx-runtime";import{useState as o,useRef as Y,useCallback as x,useEffect as L}from"react";import R from"../components/Mascot.js";import Z from"../components/NumPad.js";import{PLACEMENT_FACTS as u,MAX_CONSECUTIVE_FAILURES as ee}from"../lib/placement.js";import{useTTS as te}from"../hooks/useTTS.js";function se({onComplete:N,onImport:$}){const[s,k]=o(0),[i,K]=o(""),[j,P]=o(!1),[h,_]=o(""),[B,y]=o(!1),{speak:r,stop:A}=te(),[n,J]=o(0),[D,O]=o([]),[I,W]=o(0),[d,q]=o(!1),[b,E]=o(null),[F,M]=o(null),C=Y(0);L(()=>{s===0?r("welcome-hello"):s===1?r("welcome-name"):s===2&&r("welcome-test")},[s,r]);const v=()=>{s===0?k(1):s===1&&i.trim()?k(2):s===2&&(k(3),C.current=Date.now())},U=()=>{N(i.trim(),[])},V=()=>{$(h.trim())||y(!0)},w=x(t=>{if(d)return;q(!0),A();const l=u[n],[c,f]=l,S=Date.now()-C.current,T={a:Math.min(c,f),b:Math.max(c,f),correct:t,timeMs:S},p=[...D,T];O(p);const m=t?0:I+1;W(m),E(t?"correct":"incorrect"),setTimeout(()=>{E(null),q(!1),M(null);const G=n+1>=u.length,H=m>=ee;G||H?N(i.trim(),p):(J(n+1),C.current=Date.now())},t?600:1200)},[d,n,D,I,i,N,A]),Q=x(t=>{const[l,c]=u[n];M(t),w(t===l*c)},[n,w]),X=x(()=>{w(!1)},[w]),z=t=>{t.key==="Enter"&&i.trim()&&v()},[g]=o(()=>u.map(([t,l])=>Math.random()>.5?[t,l]:[l,t]));if(L(()=>{if(s!==3)return;const[t,l]=g[n],c=`q-${t}-${l}`;n===0?r("placement-intro",()=>r(c)):r(c)},[s,n,g,r]),s===3){const t=u[n],[l,c]=t,[f,S]=g[n],T=Array.from({length:u.length},(p,m)=>m<n?"done":m===n?"current":"pending");return e("div",{className:"welcome-screen",children:a("div",{className:"welcome-step",children:[e("div",{className:"welcome-test-progress",children:T.map((p,m)=>e("div",{className:`welcome-test-progress-dot ${p}`},m))}),a("div",{className:"formula-text welcome-test-question",children:[f,e("span",{className:"formula-operator",children:"\xD7"}),S,e("span",{className:"formula-equals",children:"="}),F!=null?e("span",{className:"welcome-test-answer",children:F}):e("span",{className:"formula-placeholder",children:"?"})]}),b&&e("div",{className:`welcome-test-feedback ${b}`,children:b==="correct"?"\u2713":`${l*c}`}),!b&&a(ne,{children:[e(Z,{onSubmit:Q,disabled:d}),a("button",{className:"welcome-dontknow",onClick:X,disabled:d,children:[e("span",{className:"welcome-dontknow-mark",children:"?"}),e("span",{children:"Je ne sais pas"})]}),e("div",{className:"welcome-test-hint",children:"R\xE9ponds du mieux que tu peux\xA0!"})]})]},"test")})}return a("div",{className:"welcome-screen",children:[s===0&&a("div",{className:"welcome-step",children:[e(R,{mood:"idle"}),e("div",{className:"welcome-title",children:"Bonjour\xA0!"}),a("div",{className:"welcome-subtitle",children:["Je suis Piou, ton petit copain d'apprentissage.",e("br",{}),"On va apprendre les tables de multiplication ensemble\xA0!"]}),e("button",{className:"btn btn--ink welcome-btn",onClick:v,children:"Suivant \u2192"}),j?a("div",{className:"welcome-import",children:[e("textarea",{className:"welcome-import-textarea",placeholder:"Colle ta progression ici\u2026",value:h,onChange:t=>{_(t.currentTarget.value),y(!1)},autoFocus:!0}),B&&e("div",{className:"welcome-import-error",children:"Progression non reconnue. V\xE9rifie le copier-coller."}),e("button",{className:"btn btn--ink welcome-btn",onClick:V,disabled:!h.trim(),children:"Importer ma progression"}),e("button",{className:"welcome-btn-skip",onClick:()=>{P(!1),y(!1)},children:"Annuler"})]}):e("button",{className:"welcome-import-link",onClick:()=>P(!0),children:"D\xE9j\xE0 une progression\xA0? L'importer"})]},"step0"),s===1&&a("div",{className:"welcome-step welcome-step-name",children:[e(R,{mood:"happy"}),e("div",{className:"welcome-title",children:"Comment tu t'appelles\xA0?"}),e("input",{className:"welcome-input",type:"text",placeholder:"Ton pr\xE9nom",value:i,onChange:t=>K(t.target.value),onKeyDown:z,autoFocus:!0,maxLength:20}),e("button",{className:"btn btn--ink welcome-btn",onClick:v,disabled:!i.trim(),children:"C'est moi\xA0! \u2192"})]},"step1"),s===2&&a("div",{className:"welcome-step",children:[e(R,{mood:"celebrate"}),a("div",{className:"welcome-title",children:["Salut ",i,"\xA0!"]}),a("div",{className:"welcome-subtitle",children:["Avant de commencer, je vais te poser quelques questions pour voir ce que tu connais d\xE9j\xE0.",e("br",{}),e("br",{}),"Pas de stress : si tu ne sais pas, tape sur \xAB\xA0Je ne sais pas\xA0\xBB."]}),e("button",{className:"btn btn--ink welcome-btn",onClick:v,children:"C'est parti\xA0! \u2192"}),e("button",{className:"welcome-btn-skip",onClick:U,children:"Passer le test"})]},"step2"),e("div",{className:"welcome-dots",children:[0,1,2].map(t=>e("div",{className:`welcome-dot ${t===s?"active":""}`},t))})]})}export{se as default};
 
 //# sourceMappingURL=WelcomeScreen.js.map

diff --git a/sw.js b/sw.js
@@ -26,7 +26,7 @@
 // Les marqueurs de version, de base path et de liste d'assets sont
 // substitués par scripts/build.mjs.
 
-const CACHE = 'tablito-' + "20260610211506"
+const CACHE = 'tablito-' + "20260610212252"
 const BASE = "/"
 const ASSETS = [
   "/CNAME",